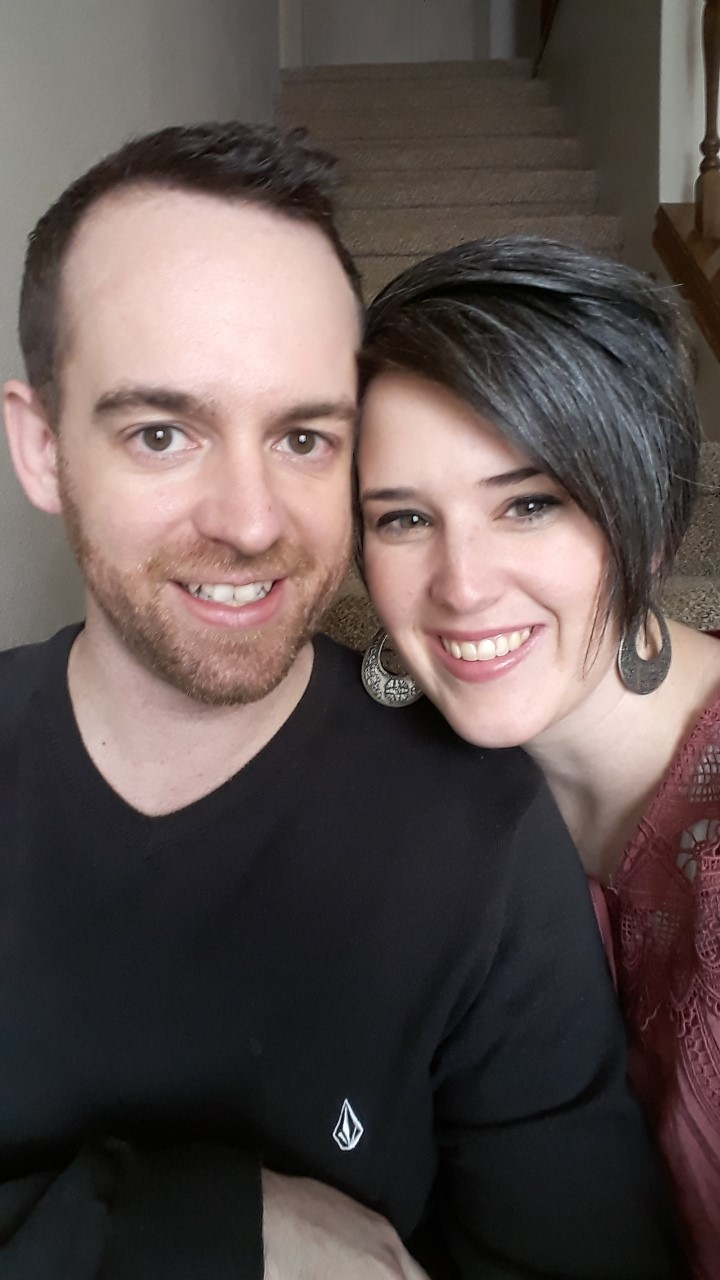
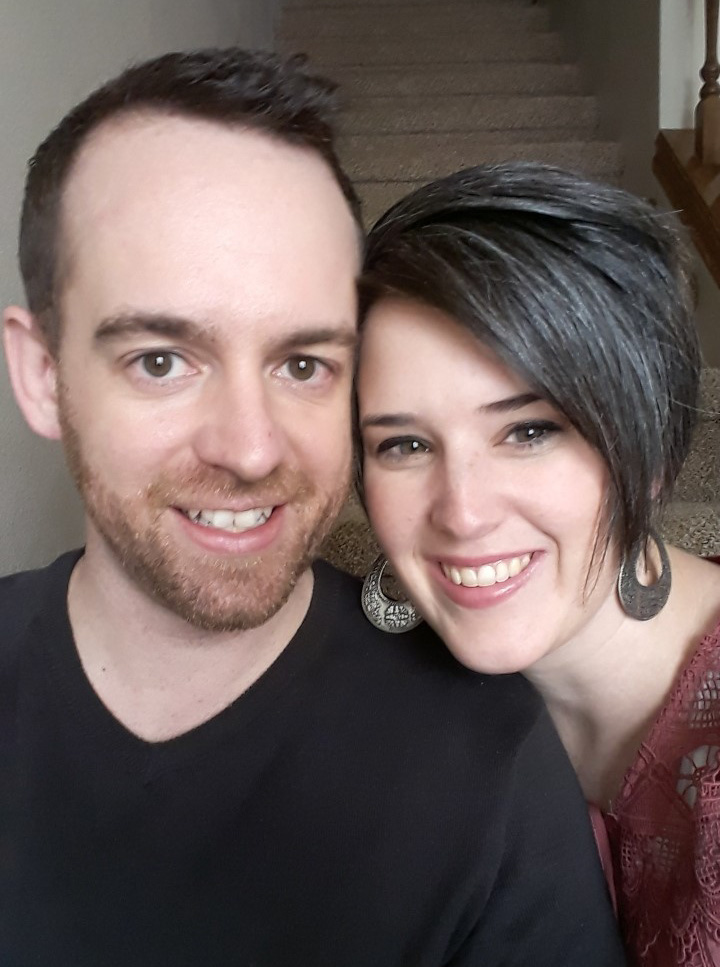
mobile friendlier

diff --git a/client/html/index.html b/client/html/index.html
@@ -22,18 +22,24 @@
     <main>
       <div class="container-fluid full-width">
 
-        <div class="section row" id="first"">
-          <div class="col-sm-6 pad">
+        <div class="section row" id="first">
+          <div class="col-6 pad">
             <h1>HELP US HAVE A BABY</h1>
-            <h2>Buying our art will help fund our IVF costs</h2>
-            <br/>
+            <h2>Buying our art will help us fund our IVF costs</h2>
+            <div class="desktop">
+              <br/>
+              <h4>We are Matt and Jenn Mecham. Due to our infertility, we are seeking to have a baby via invitro (IVF).</h4>
+              <br/>
+              <h4>Because it is so expensive, we are selling art prints to fund our IVF procedures. These art prints are from artworks that Matt has made.</h4>
+            </div>
+          </div>
+          <div class="col-6 center">
+            <div class="center us picture" style="width:85%;height:85%;background-size:contain;"></div>
+          </div>
+          <div class="col-12 pad mobile">
             <h4>We are Matt and Jenn Mecham. Due to our infertility, we are seeking to have a baby via invitro (IVF).</h4>
             <br/>
             <h4>Because it is so expensive, we are selling art prints to fund our IVF procedures. These art prints are from artworks that Matt has made.</h4>
-            <h4></h4>
-          </div>
-          <div class="col-sm-6 center">
-            <div class="center us picture" style="width:85%;height:85%;"></div>
           </div>
         </div>
       <div class="gradient">
@@ -41,7 +47,7 @@
           <div class="row">
             <div class="col-12">
               <h1>Select a picture to purchase. Choose your price.</h1>
-              <h2>If you do not want a picture, select the 'Donation Only' option.</h2>
+              <h3>If you do not want a picture, select the 'Donation Only' option.</h3>
               <br/>
               <br/>
             </div>

diff --git a/client/html/css/style.css b/client/html/css/style.css
@@ -24,6 +24,7 @@ body{
 .card-back {
   background-color: #eee;
   box-shadow: 1px 1px 15px #8c8c95;
+  margin: 10px 0px;
 }
 
 .section {
@@ -81,7 +82,7 @@ body{
 }
 
 .picture {
-  background-position: left;
+  background-position: center;
   background-repeat: no-repeat;
   background-size: cover;
 }
@@ -174,4 +175,27 @@ background: radial-gradient(circle, rgba(239,243,255,1) 0%, rgba(211,222,246,1) 
 .input-group-text {
   background-color: #767676;
   color:#ffffff !important;
+}
+
+.desktop {
+  display: block;
+}
+
+.mobile {
+  display: none;
+}
+
+@media only screen and (max-width: 575px) {
+
+  .desktop {
+    display: none;
+  }
+
+  .mobile {
+    display: block;
+  }
+
+  .input-group {
+    font-size: .5em;
+  }
 }

diff --git a/client/html/index.js b/client/html/index.js
@@ -129,7 +129,7 @@ function populate(){
     $("#pictures").append(picture);
   }
   var noPic = `<div class="col-sm-12">
-    <div class="center card-back product-card container" onclick="selected(this,3)" style="padding:5px" id="product_3">
+    <div class="center card-back product-card container" onclick="selected(this,3)" style="padding:30px" id="product_3">
       <h1>Donation Only</h1>
       <h4>A donation without buying a picture</h4>
     </div>

diff --git a/server/node/server.js b/server/node/server.js
@@ -8,7 +8,7 @@ let products = [
   {
     name: 'Carried',
     description: '8x10 print',
-    images: ['./images/carried.jpg']
+    images: ['http://143.110.155.189:4242/images/carried.jpg']
   },
   {
     name: 'City',
